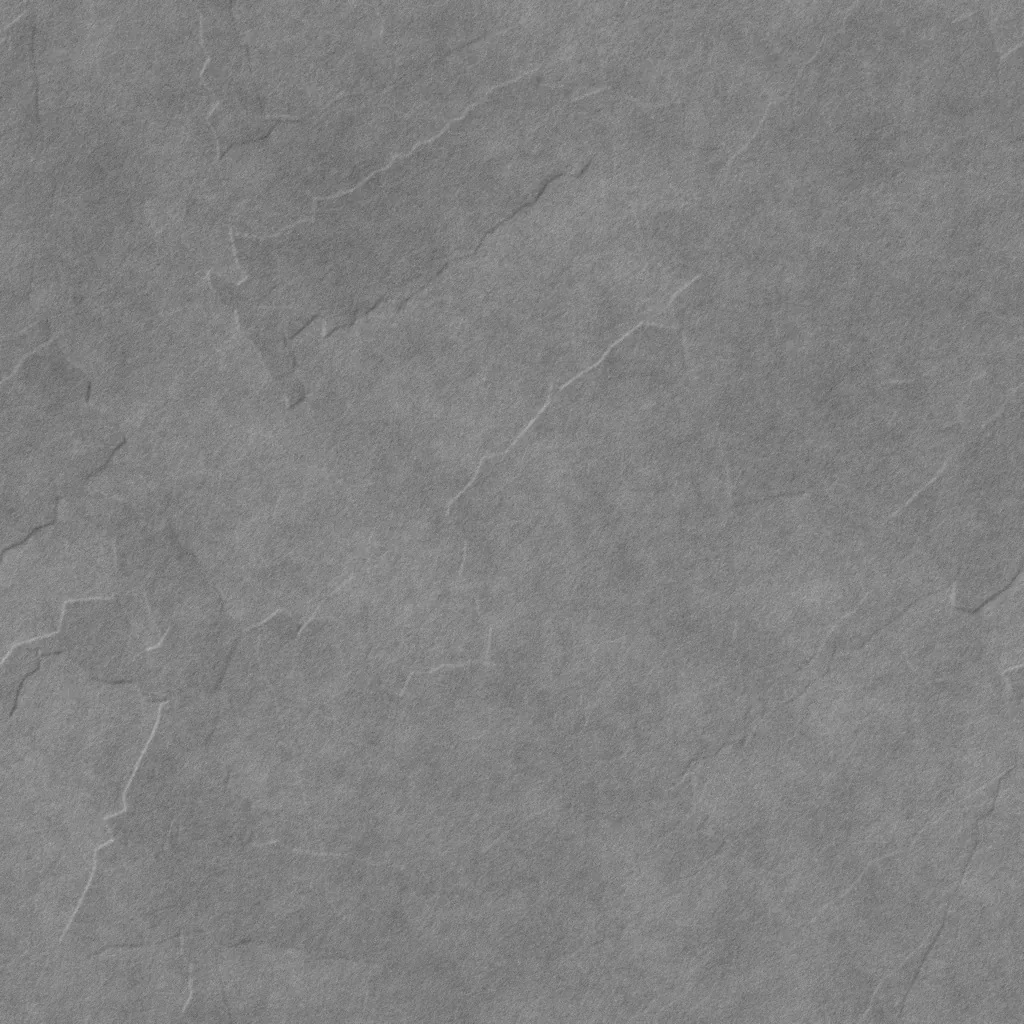
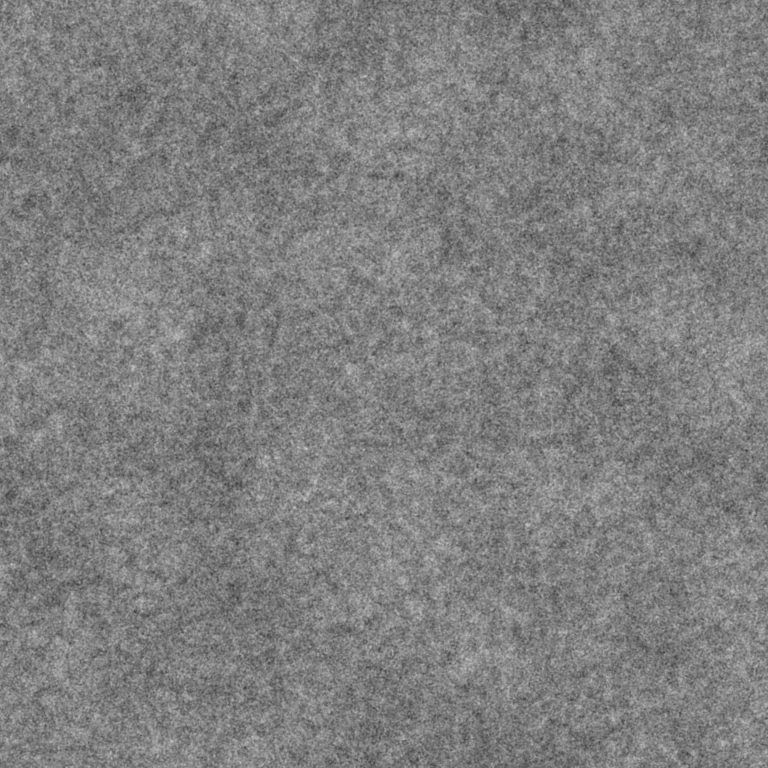
Lead with the company headline; switch to fine paper-tooth grain
Claude-Session: https://claude.ai/code/session_01WyWtLkS7WfgVKMmiB4tAwe

Changed region(s): [[0.0, 0.0, 1.0, 1.0]]

diff --git a/index.html b/index.html
@@ -23,8 +23,8 @@ a{color:inherit;text-decoration:none}
 @media (hover:hover) and (pointer:fine){body,a,button,input,textarea{cursor:none}}
 
 /* ---------- paper-mâché texture: one shared sheet over the whole site ---------- */
-.paper{position:fixed;inset:-50px;z-index:90;pointer-events:none;background:url("assets/paper.webp") 0 0/900px 900px repeat;mix-blend-mode:hard-light;opacity:.5}
-.paper.tone{mix-blend-mode:soft-light;opacity:.5;background-size:1300px 1300px;background-position:310px 170px}
+.paper{position:fixed;inset:0;z-index:90;pointer-events:none;background:url("assets/paper.webp") 0 0/384px 384px repeat;mix-blend-mode:hard-light;opacity:.28}
+.paper.tone{mix-blend-mode:soft-light;opacity:.55;background-size:1536px 1536px;background-position:211px 97px}
 
 /* ---------- starfield + cursor ---------- */
 #stars{position:fixed;inset:0;width:100%;height:100%;z-index:0;pointer-events:none}
@@ -67,7 +67,7 @@ a{color:inherit;text-decoration:none}
 .kicker{font-weight:500;font-size:11px;letter-spacing:.24em;text-transform:uppercase;color:var(--ember);display:flex;gap:14px;align-items:center;margin-bottom:26px;opacity:0;transform:translateY(10px);transition:opacity .7s,transform .7s}
 .center .kicker{justify-content:center}
 .kicker::before{content:"";width:28px;height:1px;background:currentColor}
-.chapter h1,.chapter h2{font-weight:400;font-size:clamp(38px,6.2vw,92px);line-height:1;letter-spacing:-.035em}
+.chapter h1,.chapter h2{font-weight:400;font-size:clamp(36px,5.2vw,80px);line-height:1;letter-spacing:-.035em}
 .chapter h2{font-size:clamp(34px,5.2vw,78px)}
 .w{display:inline-block;overflow:hidden;vertical-align:top;padding-bottom:.08em;margin-bottom:-.08em}
 .w>span{display:inline-block;transform:translateY(105%);transition:transform 1s cubic-bezier(.2,.7,.1,1);transition-delay:calc(var(--i)*55ms)}
@@ -420,10 +420,10 @@ footer a:hover{color:var(--moon)}
     <div class="vignette"></div>
 
     <!-- chapter copy -->
-    <div class="chapter" data-ch="0">
-      <div class="kicker">Practical Fusion · Mission 001</div>
-      <h1 class="split">Every frontier begins with a single step.</h1>
-      <p>A story about power, the people who learn to harness it, and the companies they build with it.</p>
+    <div class="chapter" data-ch="0" style="max-width:min(720px,88vw)">
+      <div class="kicker">Practical Fusion Solutions · Consultancy &amp; venture studio</div>
+      <h1 class="split">We build companies whose innovations will change the world.</h1>
+      <p>We turn high-tech ideas into revenue-generating products and sustainable businesses, from semiconductors and AI to energy, quantum and biotech.</p>
       <div class="ctas"><a class="btn solid" href="#ch1" data-hover data-go="1">Begin the mission <span class="arr">↓</span></a></div>
     </div>
     <div class="chapter" data-ch="1">
@@ -447,19 +447,19 @@ footer a:hover{color:var(--moon)}
       <p>The difference is the tether: strategy, engineering, and a story people can follow. That's the work we do.</p>
     </div>
     <div class="chapter center" data-ch="5">
-      <div class="kicker">T+04 · Practical Fusion Solutions</div>
-      <h2 class="split">We build companies whose innovations will change the world.</h2>
-      <p>We're a consultancy and venture studio where semiconductors, AI, energy, quantum and biotech meet. We harnessed the nucleus, and now we're harnessing AI. The sky was never the limit.</p>
+      <div class="kicker">T+04 · Practical Fusion</div>
+      <h2 class="split">The sky was never the limit.</h2>
+      <p>We learned to harness the nucleus. Now it's AI's turn, and we help mission-driven innovators turn it into products, revenue and companies that last.</p>
       <div class="ctas"><a class="btn solid" href="#crew" data-hover>Meet the crew <span class="arr">→</span></a><a class="btn" href="#contact" data-hover>Make contact <span class="arr">→</span></a></div>
     </div>
 
     <nav class="hud" aria-label="Story chapters">
-      <a href="#" data-go="0" data-hover><span>LAUNCH</span><i></i></a>
+      <a href="#" data-go="0" data-hover><span>PRACTICAL FUSION</span><i></i></a>
       <a href="#" data-go="1" data-hover><span>T+00 · 1969</span><i></i></a>
       <a href="#" data-go="2" data-hover><span>T+01 · NUCLEUS</span><i></i></a>
       <a href="#" data-go="3" data-hover><span>T+02 · UNCHARTED</span><i></i></a>
       <a href="#" data-go="4" data-hover><span>T+03 · HARNESS</span><i></i></a>
-      <a href="#" data-go="5" data-hover><span>T+04 · FUSION</span><i></i></a>
+      <a href="#" data-go="5" data-hover><span>T+04 · NO LIMIT</span><i></i></a>
     </nav>
     <div class="scrollhint" id="hint"><span>Scroll to fly</span><i></i></div>
     <a class="skip" href="#crew" data-hover>Skip story →</a>

diff --git a/STORYBOARD.md b/STORYBOARD.md
@@ -4,7 +4,7 @@
 
 **Through-line:** *Power was always there. The breakthrough is learning to harness it.*
 
-**Art direction.** Clean line art with flat, two-tone cel shading, inspired by Moebius and Scavengers Reign (but entirely original drawings). Low detail, generous negative space. Deep indigo night built on the logo colour `#180552`, pale lilac line work, one warm "ember" accent `#FFB38A` reserved for the nucleus and moments of energy. Type: Nohemi Regular for slim, large headlines; Nohemi Medium for small uppercase labels.
+**Art direction.** Hand-inked line art (drawn over Midjourney compositions on iPad, one transparent layer per element) with flat cel shading, inspired by Moebius and Scavengers Reign (but entirely original drawings). Low detail, generous negative space. Deep indigo night built on the logo colour `#180552`, pale lilac line work, one warm "ember" accent `#FFB38A` reserved for the nucleus and moments of energy. One fine matte paper-tooth grain sits over the whole site in code, never baked into the art. Type: Nohemi Regular for slim, large headlines; Nohemi Medium for small uppercase labels.
 
 **Immersion layer (every scene).**
 - Cursor movement tilts the whole world a few degrees in 3D (perspective warp), and each illustration layer drifts by its depth: the far sky barely moves, the foreground rock moves most.
@@ -19,12 +19,12 @@
 
 | # | Scene | Visual | On-screen copy | Motion |
 |---|---|---|---|---|
-| 0 | **Launch** | A lone astronaut stands on a dark outcrop, looking up at a huge glowing planet ringed by three orbits: the atom as a celestial body. | *Mission 001.* "Every frontier begins with a single step." CTA: **Begin the mission** | Orbits turn slowly, the astronaut's visor catches the light, and the scene breathes with the cursor. |
+| 0 | **Launch** | A lone astronaut stands on a dark outcrop, looking up at a huge glowing planet ringed by three orbits: the atom as a celestial body. | *Practical Fusion Solutions · Consultancy & venture studio.* "We build companies whose innovations will change the world." A one-line description of what the company does. CTA: **Begin the mission** | Orbits turn slowly, the astronaut's visor catches the light, and the scene breathes with the cursor. |
 | 1 | **1969** | Lunar horizon, Earth rising, a tiny lander in the distance, and one boot print in the foreground dust. | *T+00 · July 20, 1969 · Sea of Tranquility.* "One small step redrew the map of the possible." | The camera starts low over the print and drifts toward Earth. |
 | 2 | **The nucleus** | A single atom fills the frame: a warm nucleus with electrons tracing their orbits. | *T+01 · The nucleus.* "The power inside the atom was always there." Harnessing it, not discovering it, changed the century. | Electrons orbit, the nucleus pulses, and faint energy rings radiate out. |
 | 3 | **Uncharted** | An astronaut floats on a tether facing a vast constellation of connected nodes: a neural map of the unknown. | *T+02 · Uncharted territory.* "Today's frontier is intelligence." AI is power waiting to be harnessed. | Nodes flicker on, one by one. The network drifts in deep parallax. |
 | 4 | **Harness** | Ribbons of raw energy sweep in from the dark and bend into orbit around a glowing core. The astronaut holds the tether, and a craft launches along a trajectory. | *T+03 · Harness.* "Raw, it's noise. Harnessed, it's propulsion." | Energy flows along the ribbons and the craft rides its arc. |
-| 5 | **Practical Fusion** | The logo atom assembles above a glowing horizon. | *T+04.* "We build companies whose innovations will change the world." CTAs: **Meet the crew** / **Make contact** | Rings settle into the logo, and the starfield slows. |
+| 5 | **No limit** | The logo atom assembles above a glowing horizon. | *T+04 · Practical Fusion.* "The sky was never the limit." We harnessed the nucleus; now it's AI's turn. CTAs: **Meet the crew** / **Make contact** | Rings settle into the logo, and the starfield slows. |
 
 ## Act II — The mission briefing (normal scroll, same universe)
 
